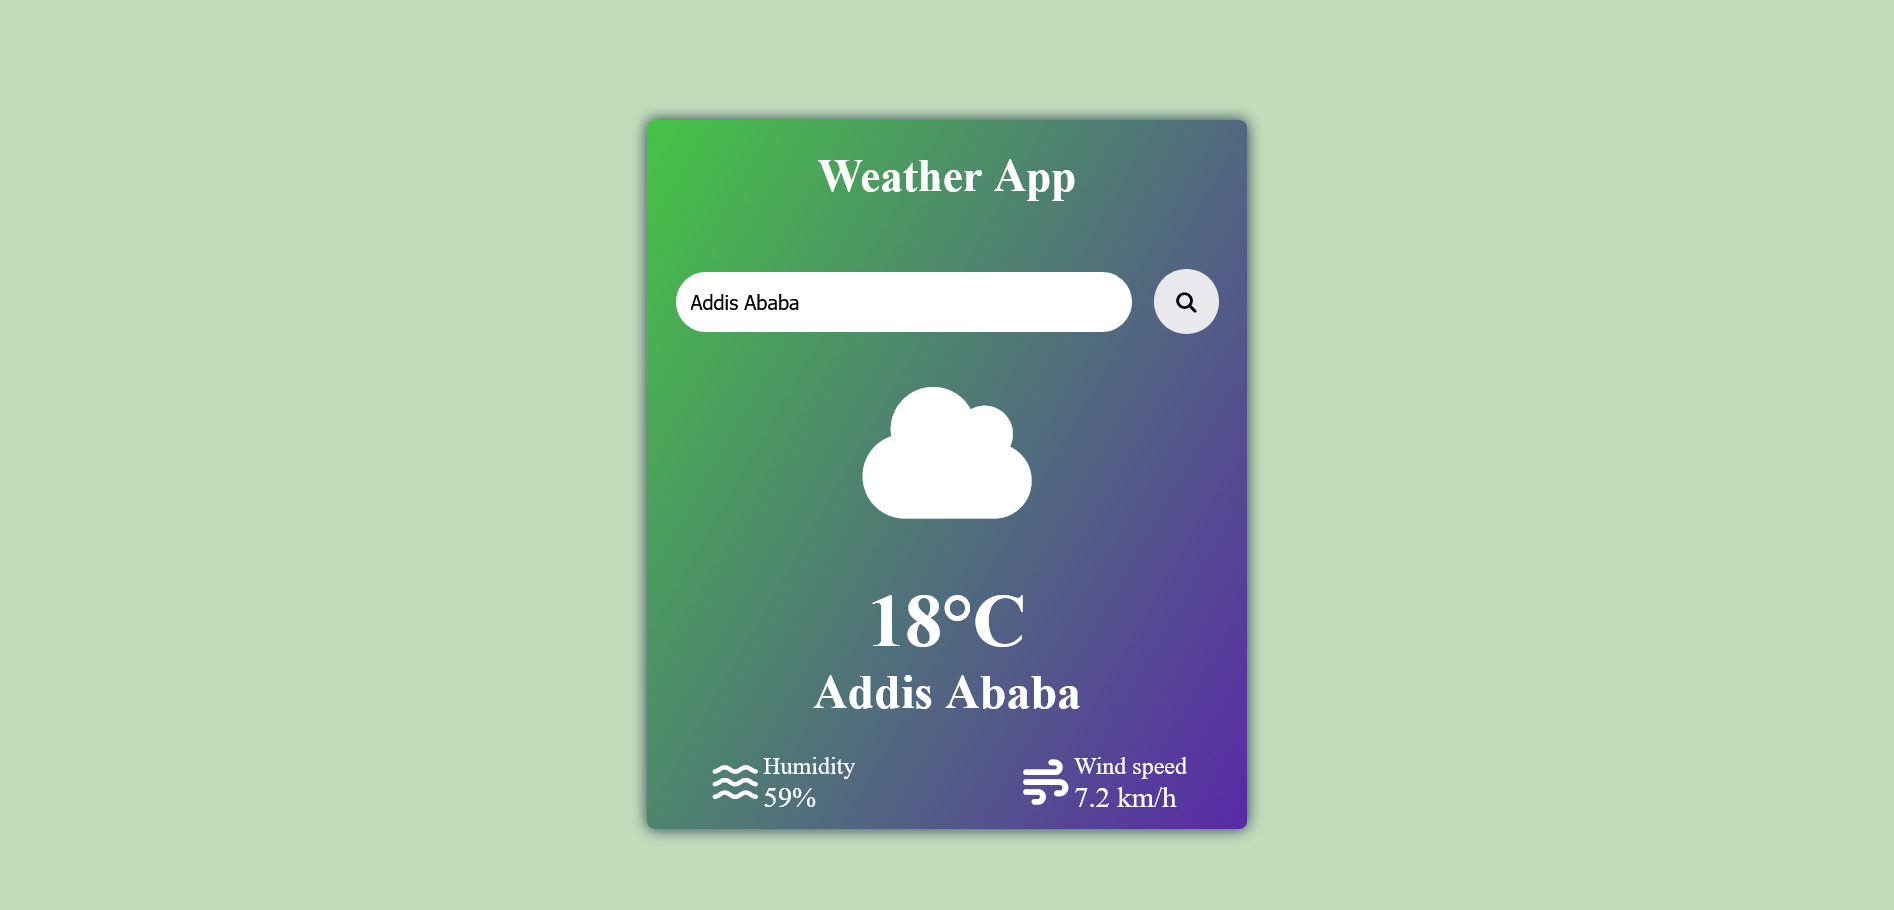
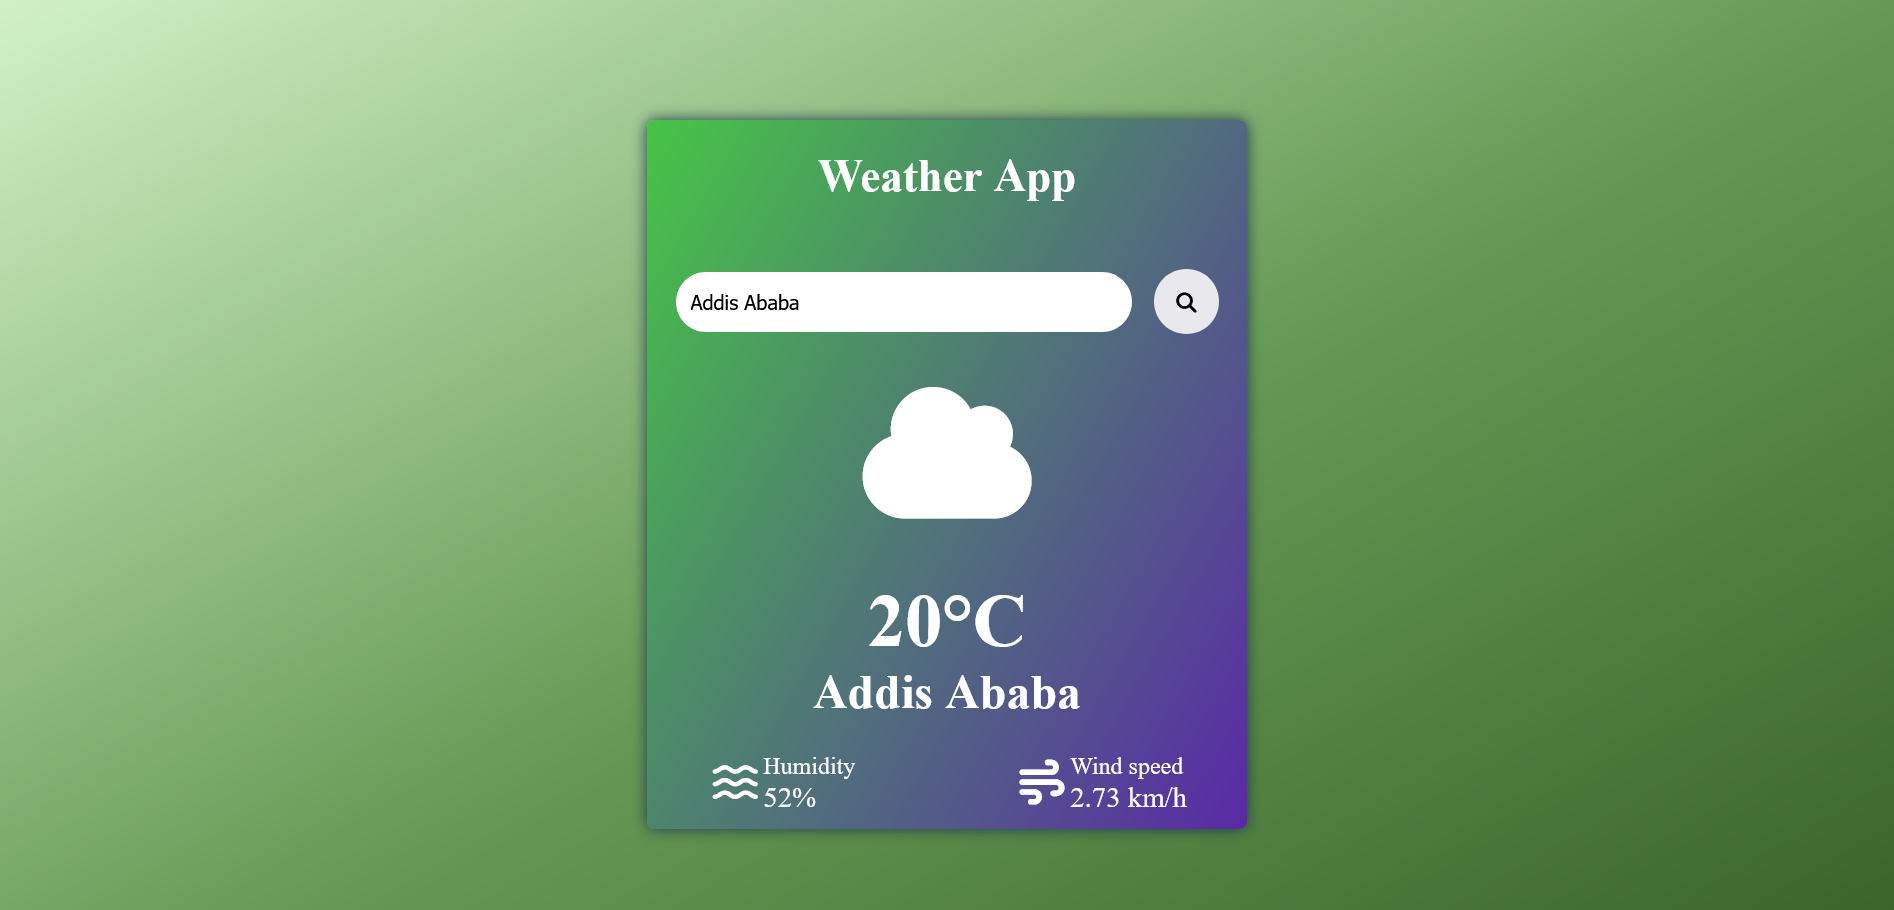
added a README.md

diff --git a/src/Work.jsx b/src/Work.jsx
@@ -43,6 +43,22 @@ const Work = () => {
 
                 <div className='projects'>
                   <p>03</p>
+                  <img src='/images/portfolioimg.png'></img>
+                  <h2>Portfolio Website</h2>
+                  <p>A personal portfolio showcasing my projects, skills, and journey as a frontend developer.</p>
+                  <div className='skills'>
+                           <p>React</p>
+                           <p>JavaScript</p>
+                           <p>CSS</p>
+                  </div>
+                  <div className='links'>
+                            <a className='link' target='_blank' href='https://portfolio-website-rho-dun-10.vercel.app/'>Live Demo ↗</a>
+                            <a className='link' target='_blank' href='https://github.com/redigob/Portfolio-Website' >Source Code ↗</a>
+                  </div>
+                </div>
+
+                <div className='projects'>
+                  <p>04</p>
                   <img src='/images/Weather.png'></img>
                   <h2>Weather App</h2>
                   <p>Get real-time weather updates with a simple and clean interface.</p>
@@ -58,7 +74,7 @@ const Work = () => {
                 </div>
 
                 <div className='projects'>
-                  <p>04</p>
+                  <p>05</p>
                   <img src='/images/Calculator.png'></img>
                   <h2>Calculator</h2>
                   <p>A clean, fucntional calculator with a simple UI.</p>
@@ -74,7 +90,7 @@ const Work = () => {
                 </div>
  
                 <div className='projects'>
-                  <p>05</p>
+                  <p>06</p>
                   <img src='/images/Todo.png'></img>
                   <h2>To-Do List</h2>
                   <p>A simple tool for organizing your tasks.</p>
@@ -90,7 +106,7 @@ const Work = () => {
                 </div>
 
                 <div className='projects'>
-                  <p>06</p>
+                  <p>07</p>
                   <img src='/images/Quiz.png'></img>
                   <h2>Quiz App</h2>
                   <p>An interactive knowledge-testing experience.</p>
@@ -106,7 +122,7 @@ const Work = () => {
                 </div>
 
                 <div className='projects'>
-                  <p>07</p>
+                  <p>08</p>
                   <img src='/images/Note.png'></img>
                   <h2>Note App</h2>
                   <p>A simple note-taking app to capture, organize, and manage your thoughts.</p>

diff --git a/src/Contact.jsx b/src/Contact.jsx
@@ -30,7 +30,7 @@ const Contact = () => {
                         <div>
                             <p>LinkedIn</p>
                             <p>Let's connect professionally</p>
-                            <a href="www.linkedin.com/in/rediet-gobezie-a21b59283" target="_blank">Connect with me ↗</a>
+                            <a href="https://www.linkedin.com/in/rediet-gobezie-a21b59283/" target="_blank">Connect with me ↗</a>
                         </div>
                     </div>
 

diff --git a/README.md b/README.md
@@ -1,134 +1,73 @@
-# JobNova 💼
+# Personal Developer Portfolio
 
-**JobNova** is a job discovery platform designed to help students, unemployed people, and professionals find opportunities based on their **skills, experience, and career goals**.
+A personal portfolio website showcasing my projects, frontend development skills, and journey as a Computer Science student.
 
-Instead of simply browsing job listings, users can create a profile, discover relevant opportunities, save jobs, and keep track of their application progress in one place.
+## 🌿 About
+
+I'm a Computer Science student and frontend developer who enjoys turning ideas into functional, user-friendly digital experiences. I'm passionate about web development, software engineering, and continuously learning new technologies.
 
 ## ✨ Features
 
-- 🔍 **Search & Filter Jobs** — Find opportunities based on job type, work type, experience, category, and other criteria.
-- 🎯 **Skill-Based Matching** — Compare a user's skills with job requirements and calculate a match percentage.
-- 👤 **User Profile** — Create a profile and add skills, experience, and career preferences.
-- ❤ **Save Jobs** — Save interesting opportunities and easily find them later.
-- 📝 **Application Tracking** — Keep track of jobs you have applied to.
-- 📊 **Application Status** — Track applications through stages such as Applied, Awaiting Response, Interview, Rejected, and Hired.
-- 🏢 **Company Discovery** — Browse companies and explore their available positions.
-- 🗺 **Career Roadmap** — Explore career paths and plan your next steps.
-- 📱 **Responsive Interface** — Designed to provide a clean experience across different screen sizes.
+- **About Me** — Learn more about my background, interests, and approach to development.
+- **Projects** — Explore my work, including live demos and source code.
+- **Contact** — Find ways to connect with me.
+- **Responsive Design** — Designed to provide a smooth experience across different screen sizes.
+- **Minimalist UI** — A clean, premium editorial aesthetic with soft neutral colors and sage-green accents.
 
-## 🛠 Tech Stack
+## 🛠 Built With
 
-- **React**
-- **JavaScript**
-- **CSS**
-- **React Router**
-- **JSON Server**
-- **Vite**
-- **Font Awesome**
+- React
+- JavaScript
+- HTML5
+- CSS3
+- React Router
 
-## 📂 Project Structure
+## 🚀 Featured Projects
 
-```text
-JobNova/
-├── public/
-├── data/
-├── src/
-│   ├── components/
-│   ├── ...
-├── index.html
-├── package.json
-├── vite.config.js
-└── README.md
-```
+- **JobNova** — A job platform that helps people discover opportunities aligned with their skills and goals.
+- **Lumora** — A blog platform for exploring stories, ideas, and knowledge.
+- **Weather App** — An application for checking real-time weather updates.
+- **Calculator** — A simple, functional calculator.
+- **To-Do List** — A tool for organizing and managing tasks.
+- **Quiz App** — An interactive knowledge-testing experience.
+- **Note App** — A note-taking app for capturing and organizing thoughts.
 
-## 🚀 Getting Started
+## 💻 Run Locally
 
-### 1. Clone the repository
+1. Clone the repository:
 
-```bash
-git clone https://github.com/redigob/JobNova.git
-```
+   ```bash
+   git clone YOUR_REPOSITORY_URL
+   ```
 
-### 2. Navigate to the project
+2. Navigate to the project directory:
 
-```bash
-cd JobNova
-```
+   ```bash
+   cd YOUR_PROJECT_FOLDER
+   ```
 
-### 3. Install dependencies
+3. Install dependencies:
 
-```bash
-npm install
-```
+   ```bash
+   npm install
+   ```
 
-### 4. Start the development server
+4. Start the development server:
 
-```bash
-npm run dev
-```
+   ```bash
+   npm run dev
+   ```
 
-### 5. Start JSON Server
+5. Open the local URL displayed in your terminal.
 
-JobNova uses JSON Server for local job and application data.
+## 🌐 Live Website
 
-Run:
+[Visit My Portfolio](https://portfolio-website-rho-dun-10.vercel.app/)
 
-```bash
-json-server --watch data/db.json --port 8000
-```
+## 📬 Connect With Me
 
-Then open the local development URL provided by Vite in your browser.
-
-## 🎯 Project Goals
-
-JobNova was built to explore how a modern job platform could make job discovery more personalized.
-
-The main goal was to move beyond a simple job listing website and create an experience where users can:
-
-1. Build a profile around their skills and goals.
-2. Discover jobs that match their experience.
-3. Save opportunities they are interested in.
-4. Track applications after applying.
-5. Understand their progress throughout the job-search process.
-6. Explore possible career paths.
-
-## 🧠 What I Learned
-
-Building JobNova helped me strengthen my understanding of:
-
-- React component architecture
-- React Router and multi-page navigation
-- Context API and shared application state
-- Managing and filtering dynamic data
-- Skill-based matching logic
-- Working with JSON Server and APIs
-- Form handling and validation
-- Application state management
-- Pagination
-- Responsive UI design
-- Git and GitHub workflows
-- Debugging and solving real-world frontend problems
-
-## 🔮 Future Improvements
-
-Possible future improvements include:
-
-- Backend authentication
-- Real user accounts
-- A real database
-- Real-time job listings
-- Resume/CV generation
-- Employer accounts
-- Job posting functionality
-- Notifications
-- Advanced recommendation algorithms
-
-## 👩💻 Author
-
-**Rediet Gobezie**
-
-Computer Science student interested in building useful and practical software.
+- **GitHub:** [@redigob](https://github.com/redigob)
 
 ---
 
-⭐ If you find the project interesting, feel free to explore the repository.
+Built with curiosity, creativity, and a commitment to continuous learning.
